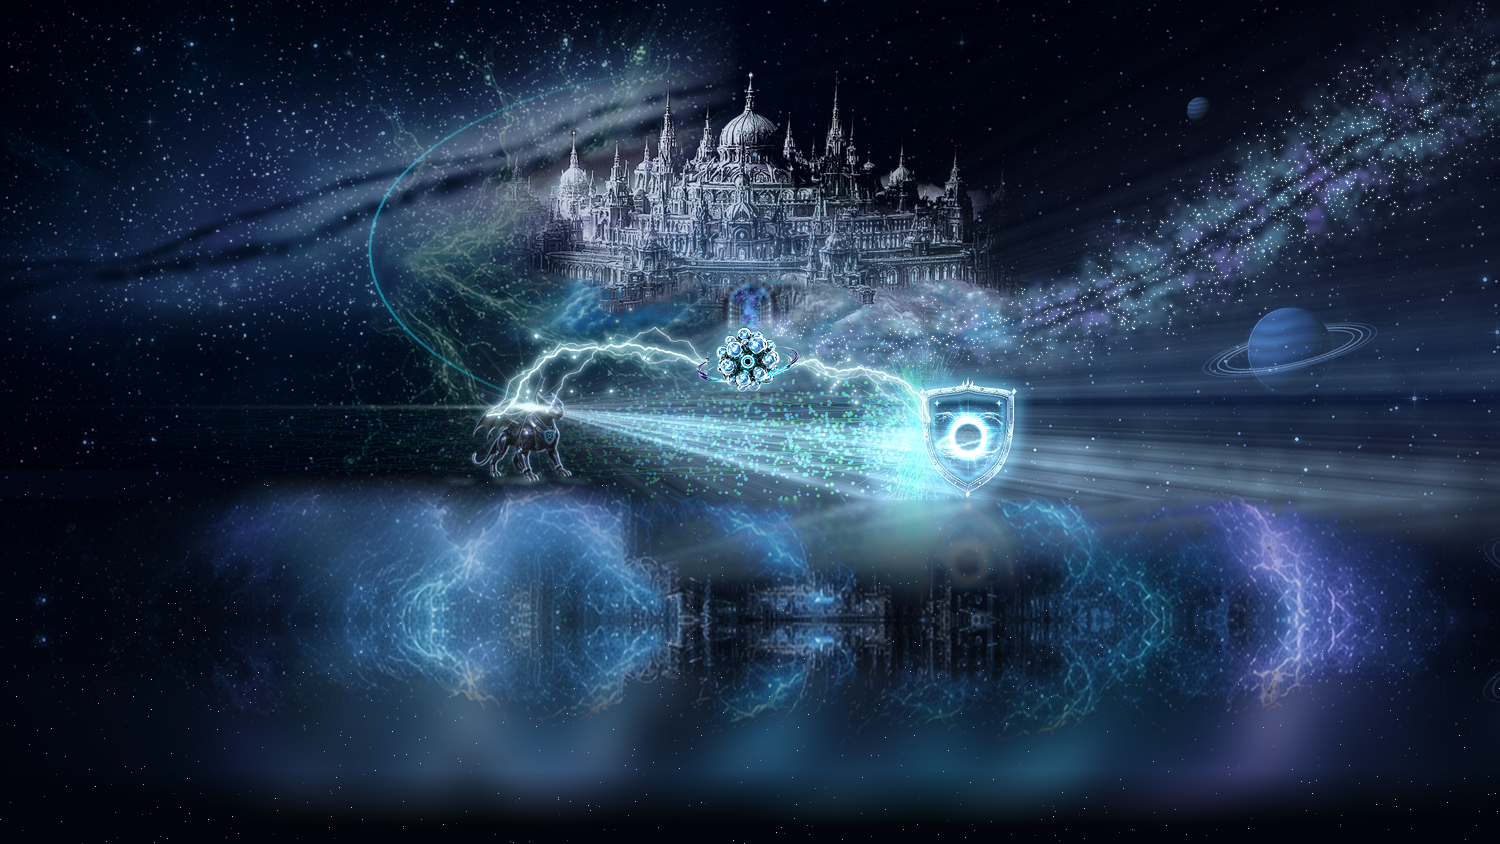
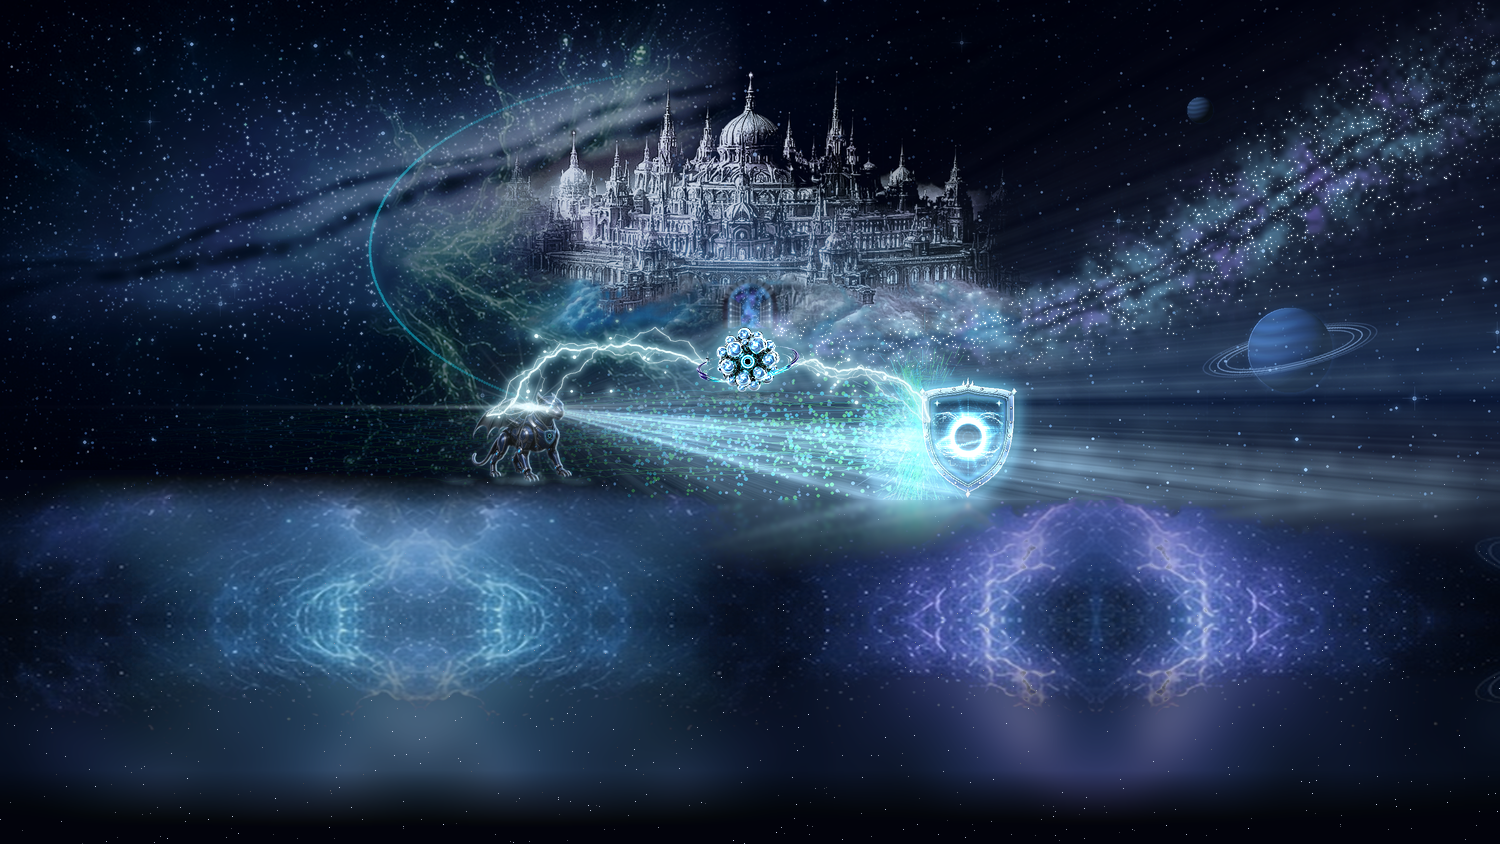
Home map: remove ghost castle reflection from the nebula floor
Rebuild sgi-map-v20-1500x844 (webp + png) with the lightning band taken only from
sgi-hero-v1's clouds left and right of its castle (cross-faded, mirrored), so no
castle towers are mirrored into the floor; the cover-floor mirror fades faster so
the shield ring no longer ghosts. Deep blue (left) and purple (right) floor kept.
Top 430px identical to before, same 1500x844 size, so WINGS hotspots are unchanged.
Generator added as tools/art/make_sgi_map_v3.py.

Changed region(s): [[0.0, 0.5545, 0.9507, 0.955]]

diff --git a/tools/art/make_sgi_map_v3.py b/tools/art/make_sgi_map_v3.py
@@ -1,0 +1,55 @@
+# SGI interactive map v20 (v3 build: no ghost castle in the floor): cover v20 (text-free) on top, extended down to 16:9 with
+# sgi-hero-v1's deep blue/purple lightning nebula band and navy floor carried in.
+from PIL import Image, ImageFilter
+import numpy as np
+import os,sys
+R=(sys.argv[1] if len(sys.argv)>1 else os.path.join(os.path.dirname(os.path.abspath(__file__)),'..','..','assets'))+'/'
+cov=Image.open(R+'v2/hero-cover-v20-textfree-1500x500.png').convert('RGB')
+old=Image.open(R+'sgi-hero-v1-1600x900.png').convert('RGB')
+W,H=1500,844; rng=np.random.default_rng(20)
+y=np.arange(H)[:,None,None].astype(float)
+# 1) navy floor: cover's bottom-left tone -> sgi-hero-v1's bottom navy (2,3,12)
+t=np.clip((y-500)/(H-500),0,1)
+img=(np.array([2,5,20])*(1-t)+np.array([2,3,12])*t)*np.ones((H,W,3))
+# 2) procedural stars (no tiling seams)
+n=900; xs=rng.integers(0,W,n); ys=rng.integers(480,H,n); br=rng.uniform(60,230,n)
+for x0,y0,b in zip(xs,ys,br):
+    img[y0,x0]=np.maximum(img[y0,x0],[b*.85,b*.9,b])
+# 3) glossy reflection of the cover's beam floor so the beam/shield glow continues past the seam
+refl=np.array(cov.crop((0,380,W,500)).transpose(Image.FLIP_TOP_BOTTOM).filter(ImageFilter.GaussianBlur(2)),float)
+ra=(np.clip((620-np.arange(500,620))/120,0,1)**2.6)[:,None,None]*0.92   # v3: faster fade, no shield-ring ghost
+img[500:620]=refl*ra+img[500:620]*(1-ra)   # mirror is continuous with the cover's last row
+# 4) sgi-hero-v1's blue/purple lightning band (under its castle), mirrored, as the nebula floor
+# v3: build the band only from sgi-hero-v1's lightning clouds left and right of its castle, so no castle
+# towers/windows get mirrored into the floor (the v2 band, x 60-1400, ran straight under the castle).
+Lp=np.array(old.crop((240,388,540,500)),float); Rp=np.array(old.crop((1110,388,1400,500)),float)
+def join(pieces,ov=90):   # cross-fade neighbours over ov px so the mirrored tiles have no seams
+    out=pieces[0]
+    for q in pieces[1:]:
+        w=np.linspace(0,1,ov)[None,:,None]
+        out=np.concatenate([out[:,:-ov],out[:,-ov:]*(1-w)+q[:,:ov]*w,q[:,ov:]],axis=1)
+    return out
+band=Image.fromarray(join([Lp,Lp[:,::-1],Rp[:,::-1],Rp]).clip(0,255).astype('uint8'))
+band=band.resize((W,150),Image.LANCZOS)
+# mirrored copy on top + upright copy below: 300px of nebula without heavy vertical stretching
+neb=np.concatenate([np.array(band.transpose(Image.FLIP_TOP_BOTTOM),float),np.array(band,float)],axis=0)
+ny=np.arange(300)[:,None,None]
+na=np.clip(ny/40,0,1)*np.clip((300-ny)/120,0,1)*0.95
+# keep the blue/purple glow, drop grey castle-wall texture: weight by blue dominance (B - R)
+blue=np.clip((neb[...,2:3]-neb[...,0:1]-8)/45,0,1)
+img[470:770]=np.maximum(img[470:770],neb*na*blue)   # lighten blend
+glow=np.array(band.resize((W,200)).filter(ImageFilter.GaussianBlur(18)),float)
+gy=np.arange(200)[:,None,None]; ga=np.clip(gy/50,0,1)*np.clip((200-gy)/60,0,1)*0.6
+img[630:830]=np.maximum(img[630:830],glow*ga)
+# 5) cover v20 on top, whole; the mirrored floor (step 3) continues it, so there is no seam line
+c=np.array(cov,float)
+img[:500]=np.maximum(c,img[:500]*(np.arange(500)[:,None,None]>=470))   # cover kept whole; nebula may glow into its last 30px
+# 6) soften where the reflection hands over to the nebula (around y 540)
+pre=Image.fromarray(np.clip(img,0,255).astype('uint8'))
+bl=np.array(pre.filter(ImageFilter.BoxBlur(0)).crop((0,430,W,590)).filter(ImageFilter.GaussianBlur((1,22)) if False else ImageFilter.GaussianBlur(14)),float)
+sy=np.arange(430,590)[:,None,None]; sm=np.clip(1-np.abs(sy-540)/60,0,1)**1.2*0.6
+img[430:590]=img[430:590]*(1-sm)+bl*sm
+out=Image.fromarray(np.clip(img,0,255).astype('uint8'))
+out.save(R+'v2/sgi-map-v20-1500x844.png',optimize=True)
+out.save(R+'v2/sgi-map-v20-1500x844.webp',quality=85,method=6)
+print(out.size)
